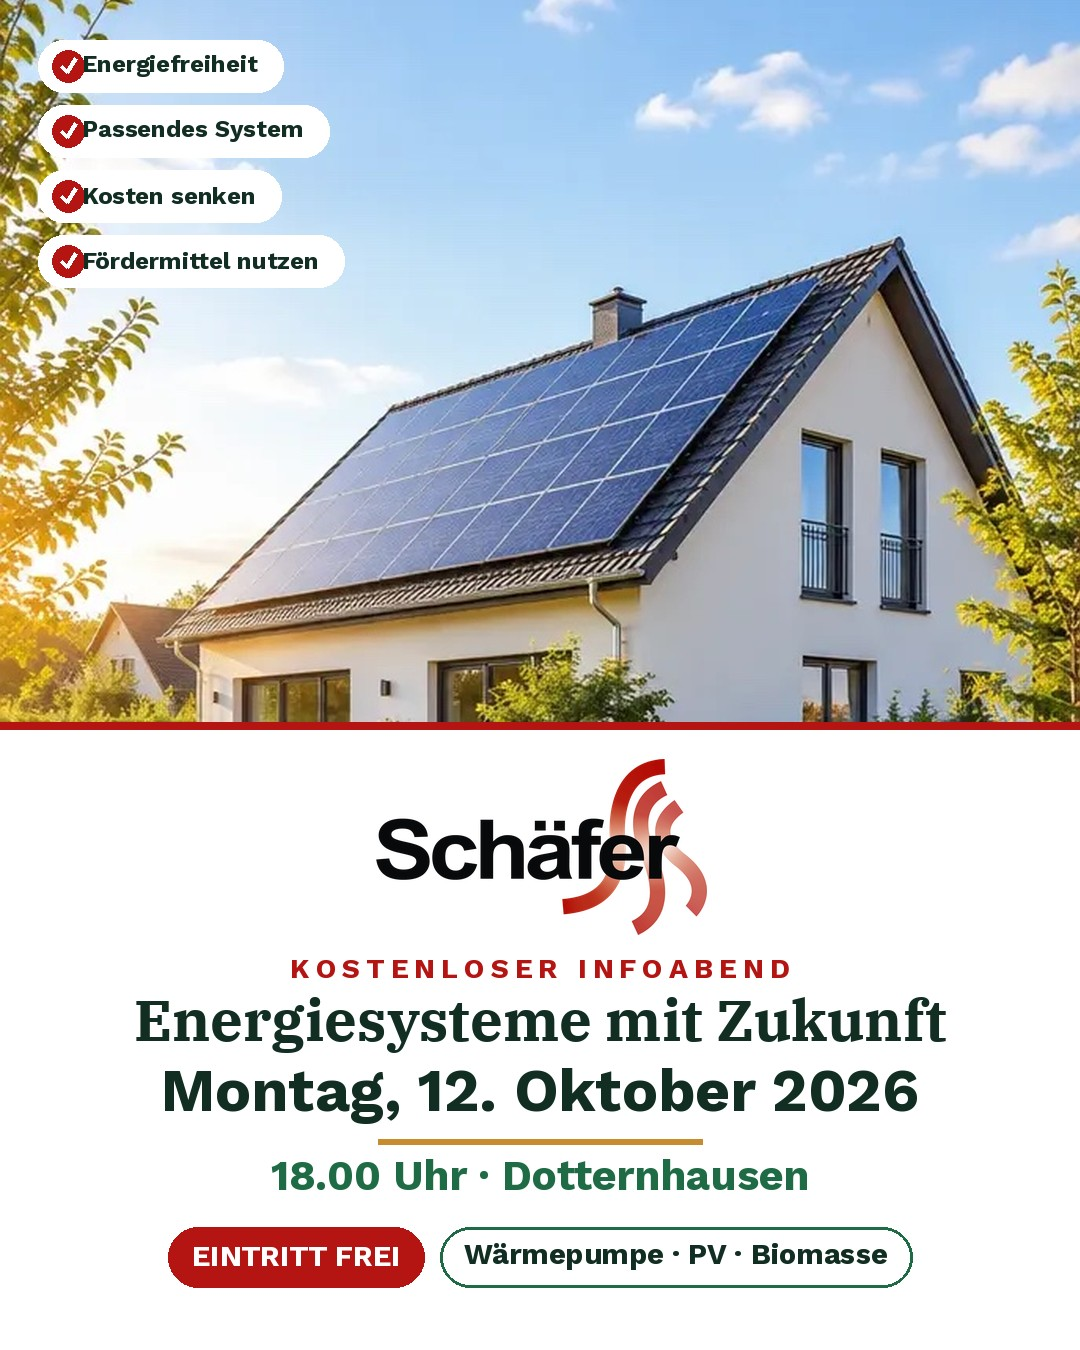
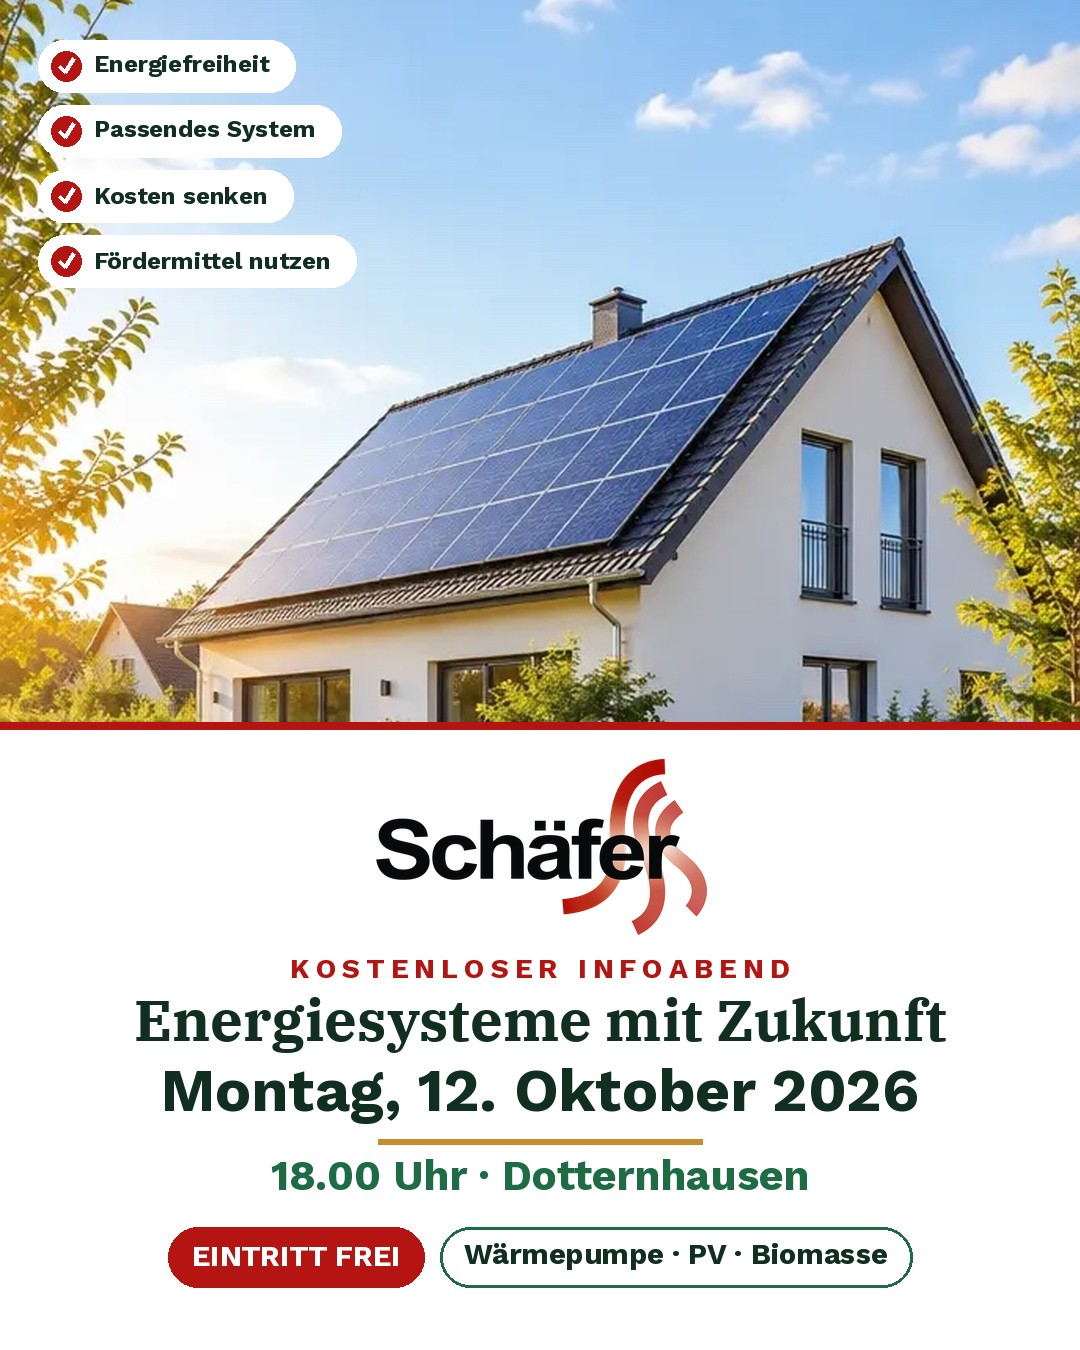
Event-Creative: Abstand Haken<->Text in den Schlagwort-Badges korrigiert
Claude-Session: https://claude.ai/code/session_0195Z1PjpkPHucqAk5ooUwCA

Changed region(s): [[0.0611, 0.0311, 0.3361, 0.2178]]

diff --git a/tools_overlay_event.py b/tools_overlay_event.py
@@ -45,9 +45,9 @@ def make(size,frac,out):
     # Schlagwort-Badges oben links auf dem Foto
     def badge(x,y,text):
         bf=ImageFont.truetype(SANS,int(24*u)); tw=d.textlength(text,font=bf)
-        chk=int(44*u); pw=chk+tw+int(26*u); bh=int(52*u)
+        chk=int(56*u); pw=chk+tw+int(26*u); bh=int(52*u)
         d.rounded_rectangle([x,y,x+pw,y+bh],radius=bh//2,fill=(255,255,255))
-        cxc=x+int(30*u); cyc=y+bh//2; r=int(16*u)
+        cxc=x+int(28*u); cyc=y+bh//2; r=int(15*u)
         d.ellipse([cxc-r,cyc-r,cxc+r,cyc+r],fill=RED)
         d.line([(cxc-int(7*u),cyc),(cxc-int(1*u),cyc+int(6*u)),(cxc+int(8*u),cyc-int(8*u))],fill=(255,255,255),width=max(2,int(4*u)),joint="curve")
         bb=d.textbbox((0,0),text,font=bf); d.text((x+chk,cyc-(bb[3]-bb[1])/2-bb[1]),text,font=bf,fill=INK)
